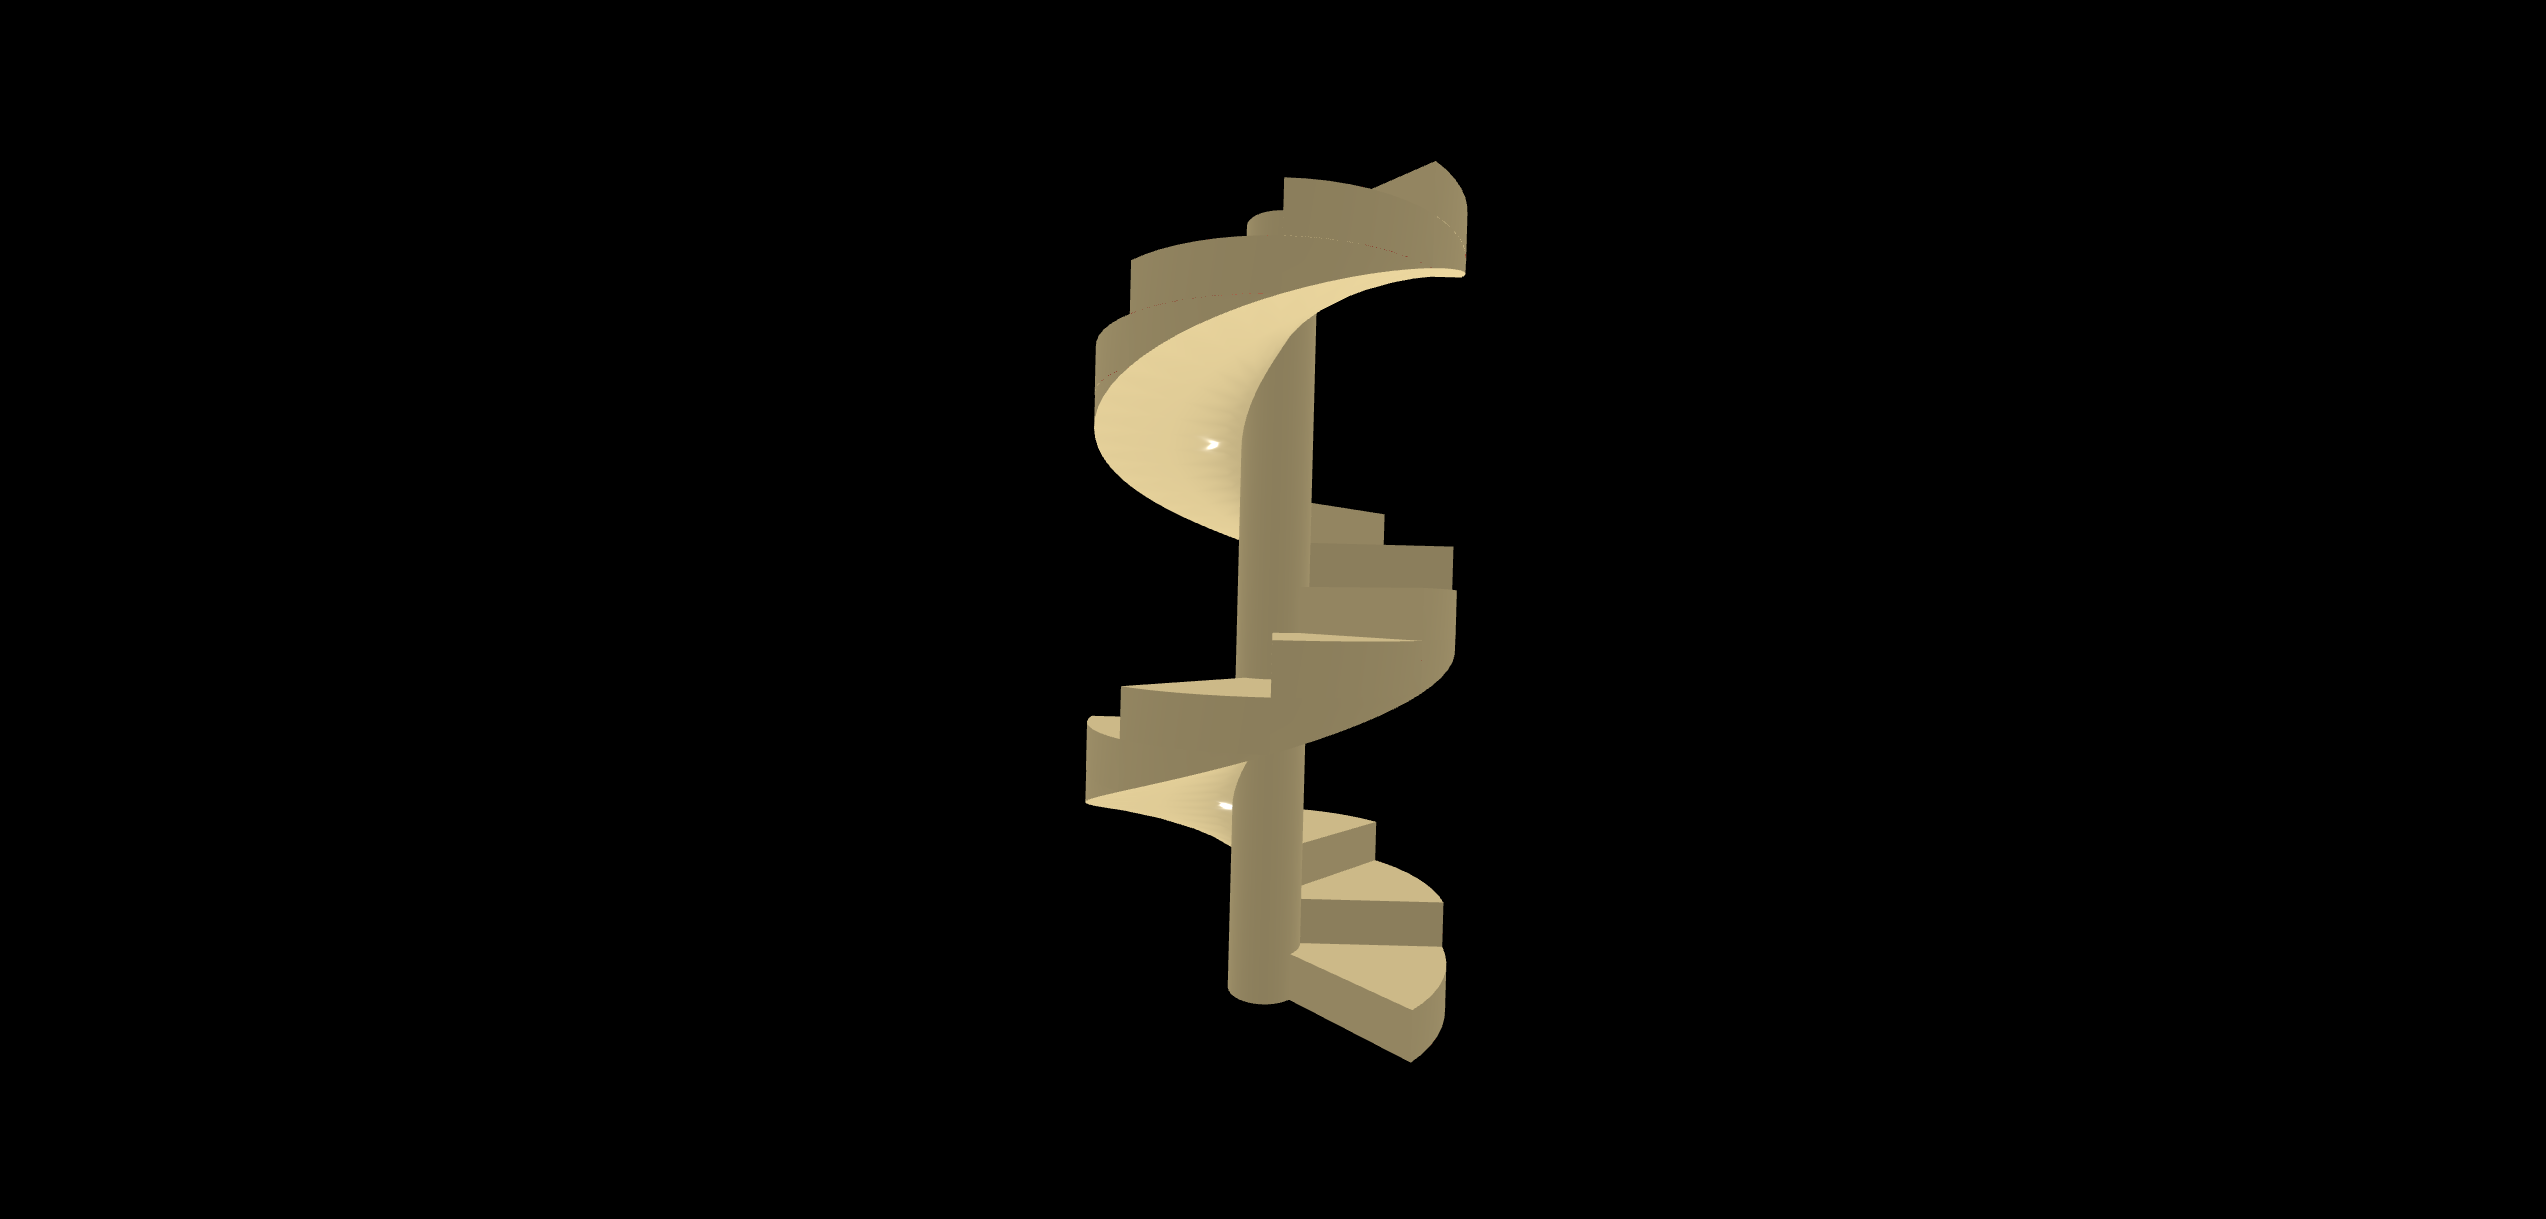
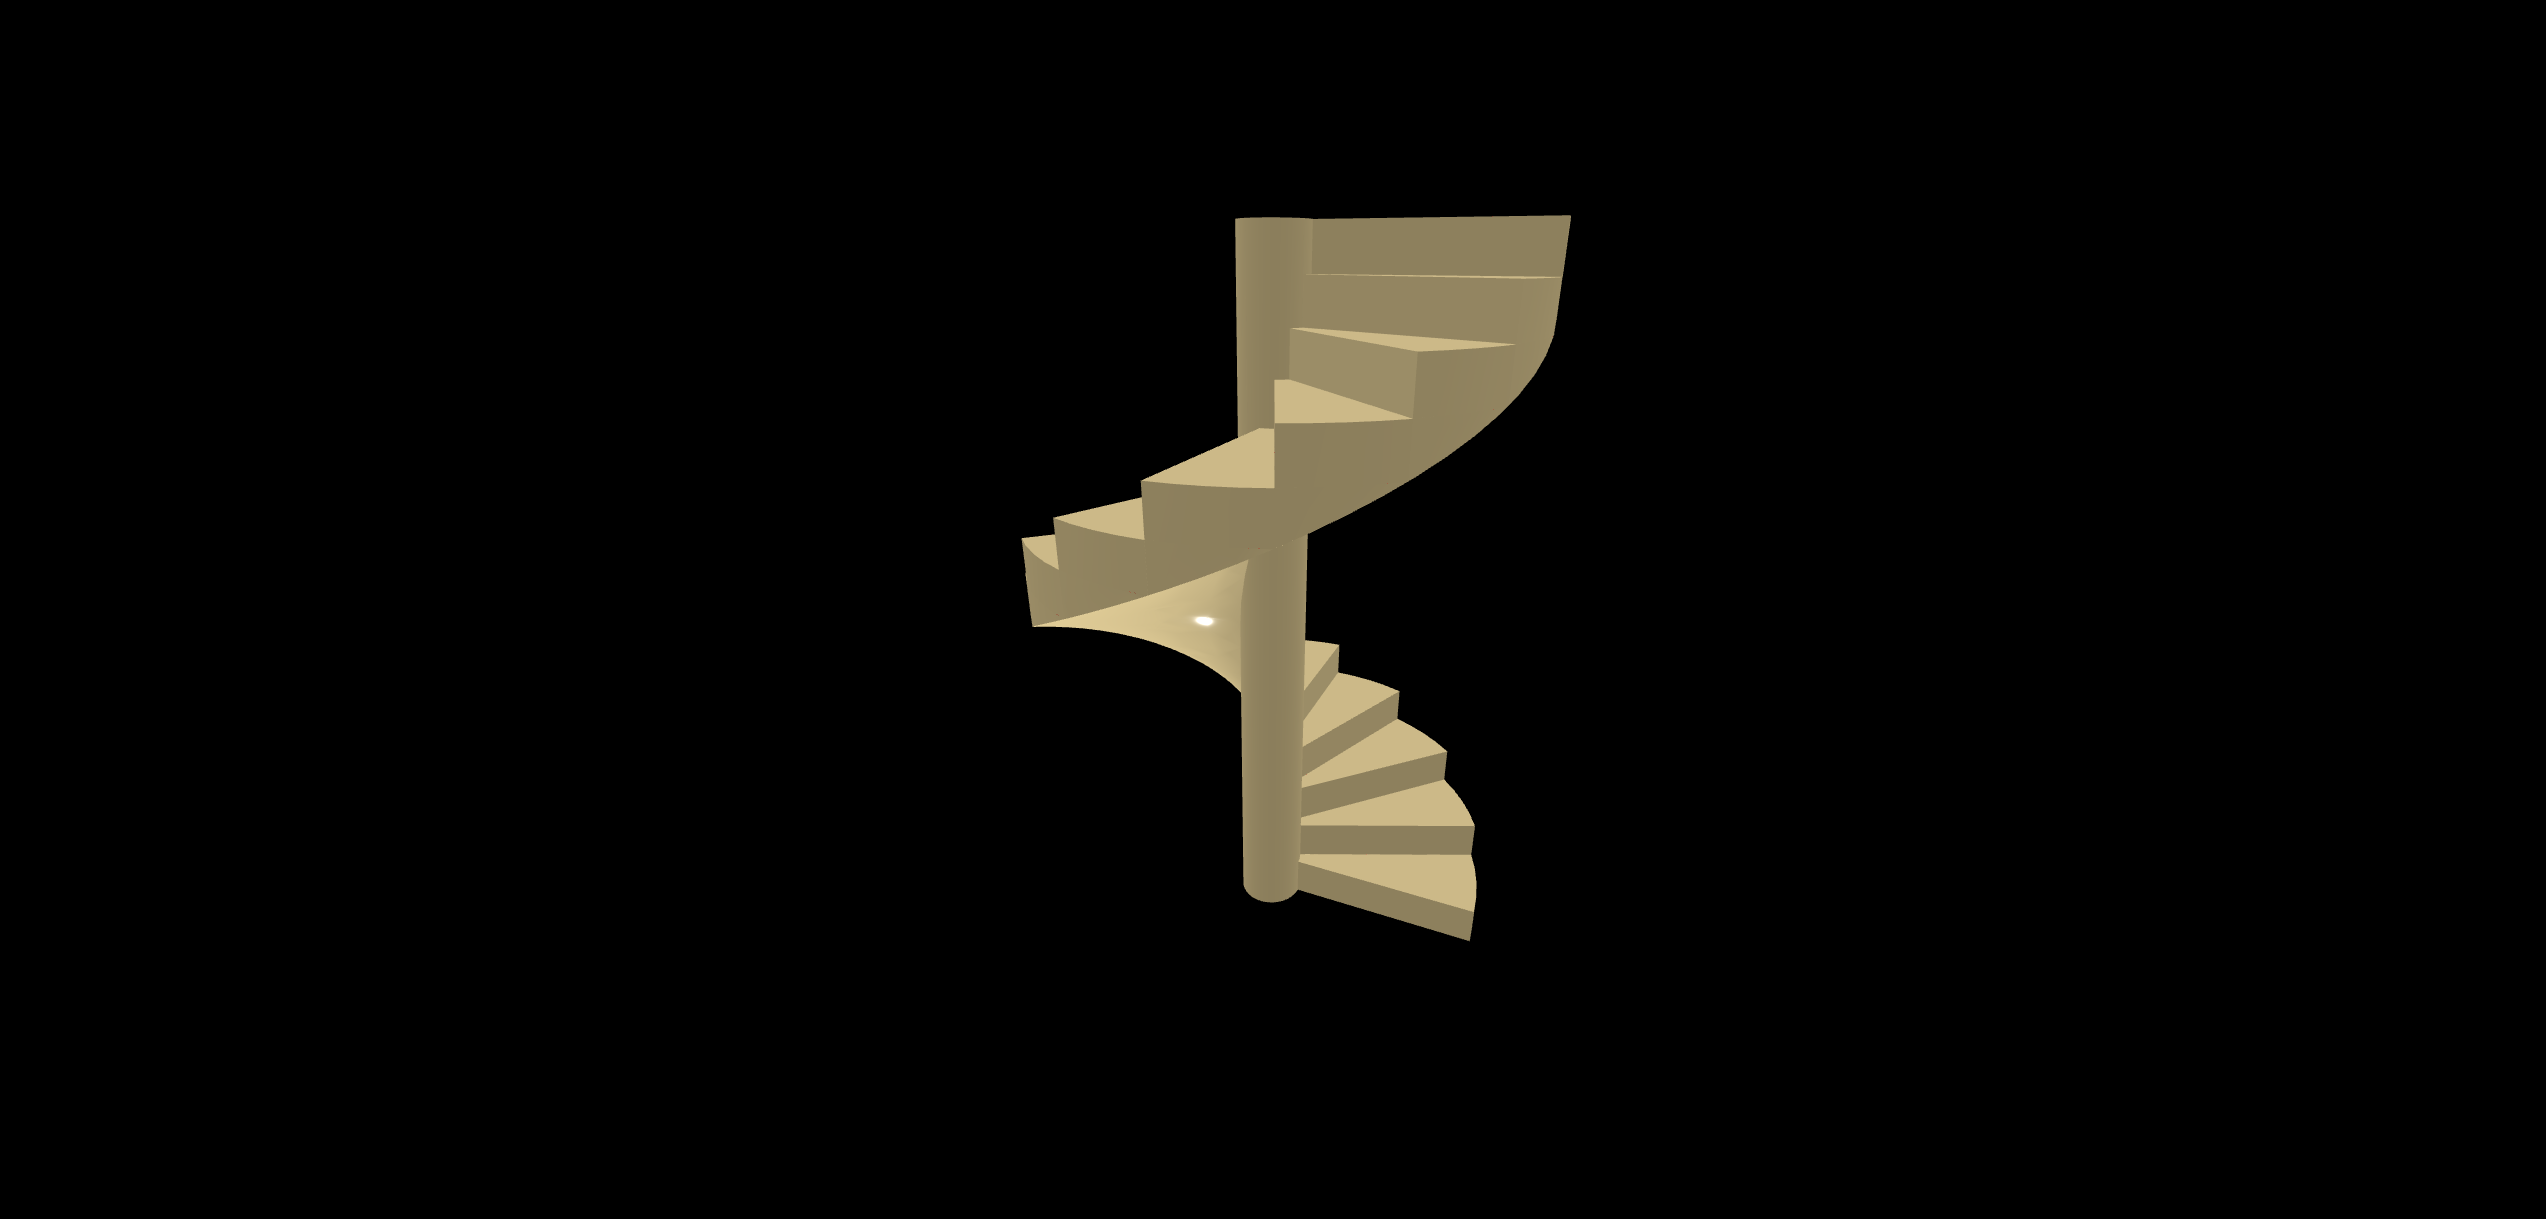
stair union

Changed region(s): [[0.4034, 0.1247, 0.6206, 0.8728]]

diff --git a/CadQuery/stair.py b/CadQuery/stair.py
@@ -3,17 +3,18 @@ from ocp_vscode import show
 
 def stair():
     # helix parametrs
-    r = 6      # radius
-    p = 20       # pitch
+    r = 8    # radius
+    p = 40       # pitch
     h = 40      # 
-    hs = 2.5
+    hs = 2.5 
     alf = 360/p * hs
     r1 = 2
 
     ax = cq.Workplane("XY").cylinder(height=h + hs, radius = r1).translate((0, 0, (h + hs)/2 - hs / 2))
-    step = cq.Workplane("XY").cylinder(height=hs, radius = (2*r - r1 + 0.01), angle=alf).rotate((0, 0, 0), (0, 0, 1), -alf)
+    step = cq.Workplane("XY").cylinder(height=hs - 0.01, radius = (2*r - r1 + 0.01), angle=alf).rotate((0, 0, 0), (0, 0, 1), -alf)
     n = int(h / hs)
-    steps = [step.rotate((0, 0, 0), (0, 0, 1), i* alf).translate((0, 0, i * hs))  for i in range(n + 1)]
+    steps = [step.rotate((0, 0, 0), (0, 0, 1), i* alf).translate((0, 0, i * hs)).val()  for i in range(n + 1)]
+    steps_union = cq.Workplane("XY").add(steps).union()
 
     # helix trace
     helix = cq.Wire.makeHelix(pitch=p, height=h, radius=r)
@@ -26,11 +27,10 @@ def stair():
         .sweep(cq.Workplane(obj=helix), isFrenet=True)
     )
     
-    for s in steps:
-        ax = ax.union(s)
+    ax = ax.union(steps_union)
     ax = ax.union(strip)
     return ax
 
 res = stair()    
 show(res)
-cq.exporters.export(res, './stl/stair.stl')
+cq.exporters.export(res, './stl/stair.stl')   
